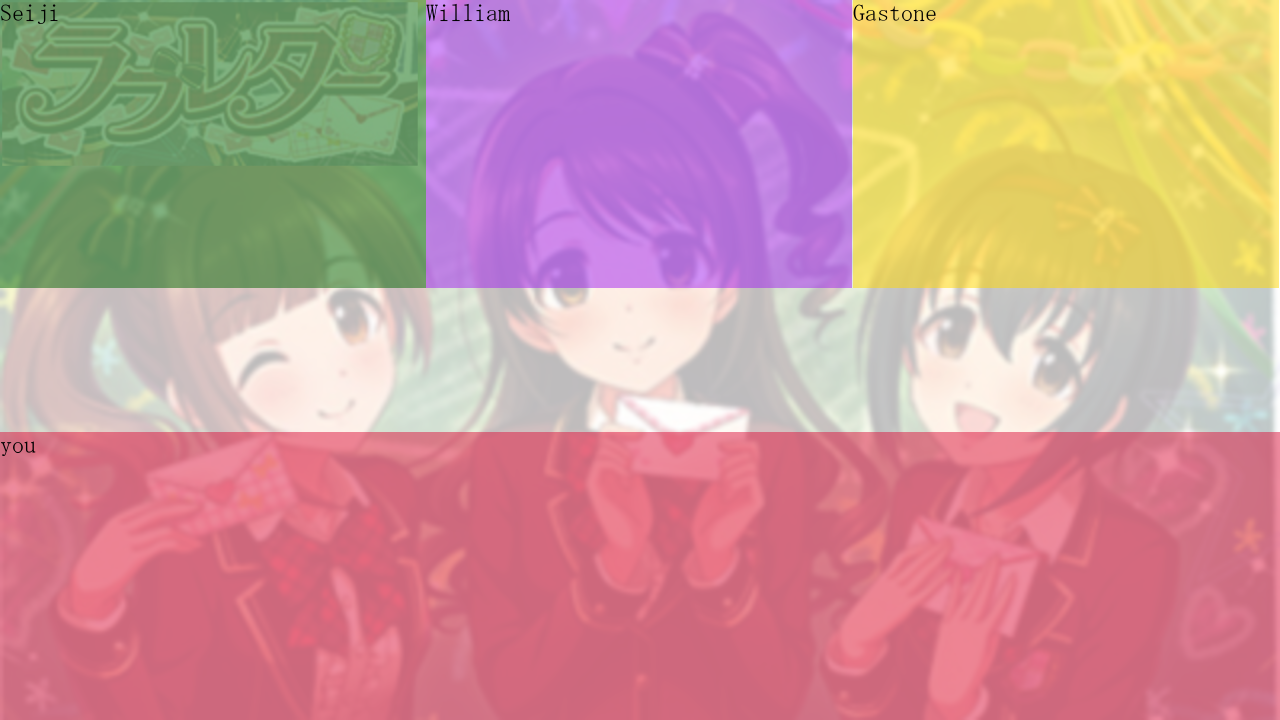
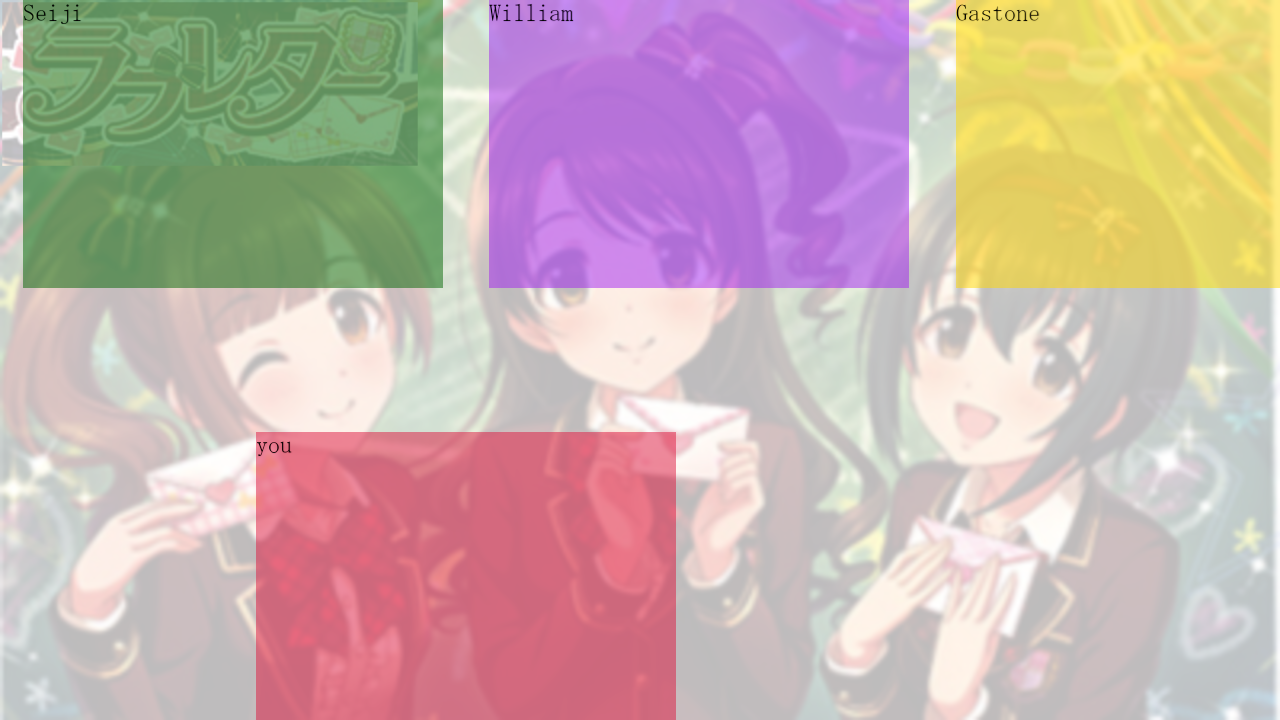
L005:Squareの拡大縮小対応

diff --git a/ll/mod/player_square.py b/ll/mod/player_square.py
@@ -1,4 +1,4 @@
-from pygame import Rect, Color
+from pygame import Rect, Color, Surface, SRCALPHA, transform
 from copy import deepcopy
 
 from mod.screen import screen
@@ -11,18 +11,34 @@ from ptc.element import Element
 class PlayerSquare():
     def __init__(self, player: Player, rect: Rect) -> None:
         self.player = player
-        self.rect = rect
+        self.rect = self._rect(rect=rect)
+        self.img = self._img()
 
     def get_hover(self) -> Element | None:
         return None
 
     def draw(self) -> None:
-        rect_fill(color=self.translucent_color, rect=self.rect)
-        # screen.fill(color=self.translucent_color, rect=self.rect)
-        screen.blit(source=MS_MINCHO_COL(self.player.name, 24, "black"), dest=self.rect)
+        screen.blit(source=self.img, dest=self.rect)
+        ...
+        # rect_fill(color=self.translucent_color, rect=self.rect)
+        # screen.blit(source=MS_MINCHO_COL(self.player.name, 24, "black"), dest=self.rect)
+        # for i, kard in enumerate(self.player.log):
+        #     dd
 
     @property
     def translucent_color(self) -> Color:
         color = deepcopy(self.player.color)
         color.a = int(color.a/2)
         return color
+
+    def _rect(self, rect: Rect) -> Rect:
+        w, h = (420*rect.h/288, rect.h) if rect.w*288 > rect.h*420 else (rect.w, 288*rect.w/420)
+        return Rect(rect.left+(rect.w-w)/2, rect.top+(rect.h-h)/2, w, h)
+
+    def _img(self) -> Surface:
+        img = Surface(size=(420, 288), flags=SRCALPHA)
+        rect_fill(color=self.translucent_color, rect=Rect(0, 0, 420, 288), surface=img)
+        img.blit(source=MS_MINCHO_COL(self.player.name, 24, "black"), dest=(0, 0))
+        # rect_fill(color=self.translucent_color, rect=self.rect, surface=img)
+        # img.blit(source=MS_MINCHO_COL(self.player.name, 24, "black"), dest=self.rect)
+        return transform.rotozoom(surface=img, angle=0.0, scale=self.rect.w/420)

diff --git a/ll/mod/b_a_v.py b/ll/mod/b_a_v.py
@@ -1,15 +1,15 @@
 from mod.board import Board
 from mod.board_view import BoardView
 from mod.man_player import ManPlayer
-from mod.kards import deck
+from mod.kards import deck, _kard1
 from ptc.player import Player
 
 def _make_board() -> Board:
     players: list[Player] = [
-        ManPlayer(name="you", color="crimson"),
-        ManPlayer(name="Seiji", color="darkgreen"),
-        ManPlayer(name="William", color="purple"),
-        ManPlayer(name="Gastone", color="gold")]
+        ManPlayer(name="you", color="crimson", log=[]),
+        ManPlayer(name="Seiji", color="darkgreen", log=[_kard1]),
+        ManPlayer(name="William", color="purple", log=[]),
+        ManPlayer(name="Gastone", color="gold", log=[])]
     return Board(players=players)
 
 board = _make_board()

diff --git a/ll/mod/func.py b/ll/mod/func.py
@@ -1,5 +1,5 @@
 from pygame import Surface, SRCALPHA, Color, Rect
-from typing import Callable, Any
+from typing import Callable, Any, Sequence
 
 from mod.screen import screen
 
@@ -14,7 +14,10 @@ def pass_func() -> None:
 def mono_func(any: Any) -> None:
     ...
 
-def rect_fill(color: Any, rect: Rect) -> None:
+RGBAOutput = tuple[int, int, int, int]
+ColorValue = Color | int | str | tuple[int, int, int] | RGBAOutput | Sequence[int]
+
+def rect_fill(color: ColorValue, rect: Rect, surface: Surface=screen) -> None:
     source = Surface(size=rect.size, flags=SRCALPHA)
     source.fill(color=color)
-    screen.blit(source=source, dest=rect)
+    surface.blit(source=source, dest=rect)

diff --git a/ll/mod/board_view.py b/ll/mod/board_view.py
@@ -46,5 +46,5 @@ class BoardView():
         w = WX/len(opponents)
         h = WY*2/5
         opponents_squares: list[Square] = [PlayerSquare(player=player, rect=Rect(w*i, 0, w, h)) for i, player in enumerate(opponents)]
-        subject_square: list[Square] = [PlayerSquare(player=self.subject, rect=Rect(0, WY-h, WX, h))] if self.subject in self.board.players else []
+        subject_square: list[Square] = [PlayerSquare(player=self.subject, rect=Rect(w/2, WY-h, w, h))] if self.subject in self.board.players else []
         return opponents_squares+subject_square

diff --git a/ll/mod/man_player.py b/ll/mod/man_player.py
@@ -1,11 +1,13 @@
 from pygame import Color
-
 from typing import Sequence
+
+from mod.kard import Kard
 
 RGBAOutput = tuple[int, int, int, int]
 ColorValue = Color | int | str | tuple[int, int, int] | RGBAOutput | Sequence[int]
 
 class ManPlayer():
-    def __init__(self, name: str, color: ColorValue) -> None:
+    def __init__(self, name: str, color: ColorValue, log: list[Kard]) -> None:
         self.name = name
         self.color = Color(color)
+        self.log = log

diff --git a/ll/ptc/player.py b/ll/ptc/player.py
@@ -1,8 +1,10 @@
 from pygame import Color
-
 from typing import runtime_checkable, Protocol
+
+from mod.kard import Kard
 
 @runtime_checkable
 class Player(Protocol):
     name: str
     color: Color
+    log: list[Kard]
